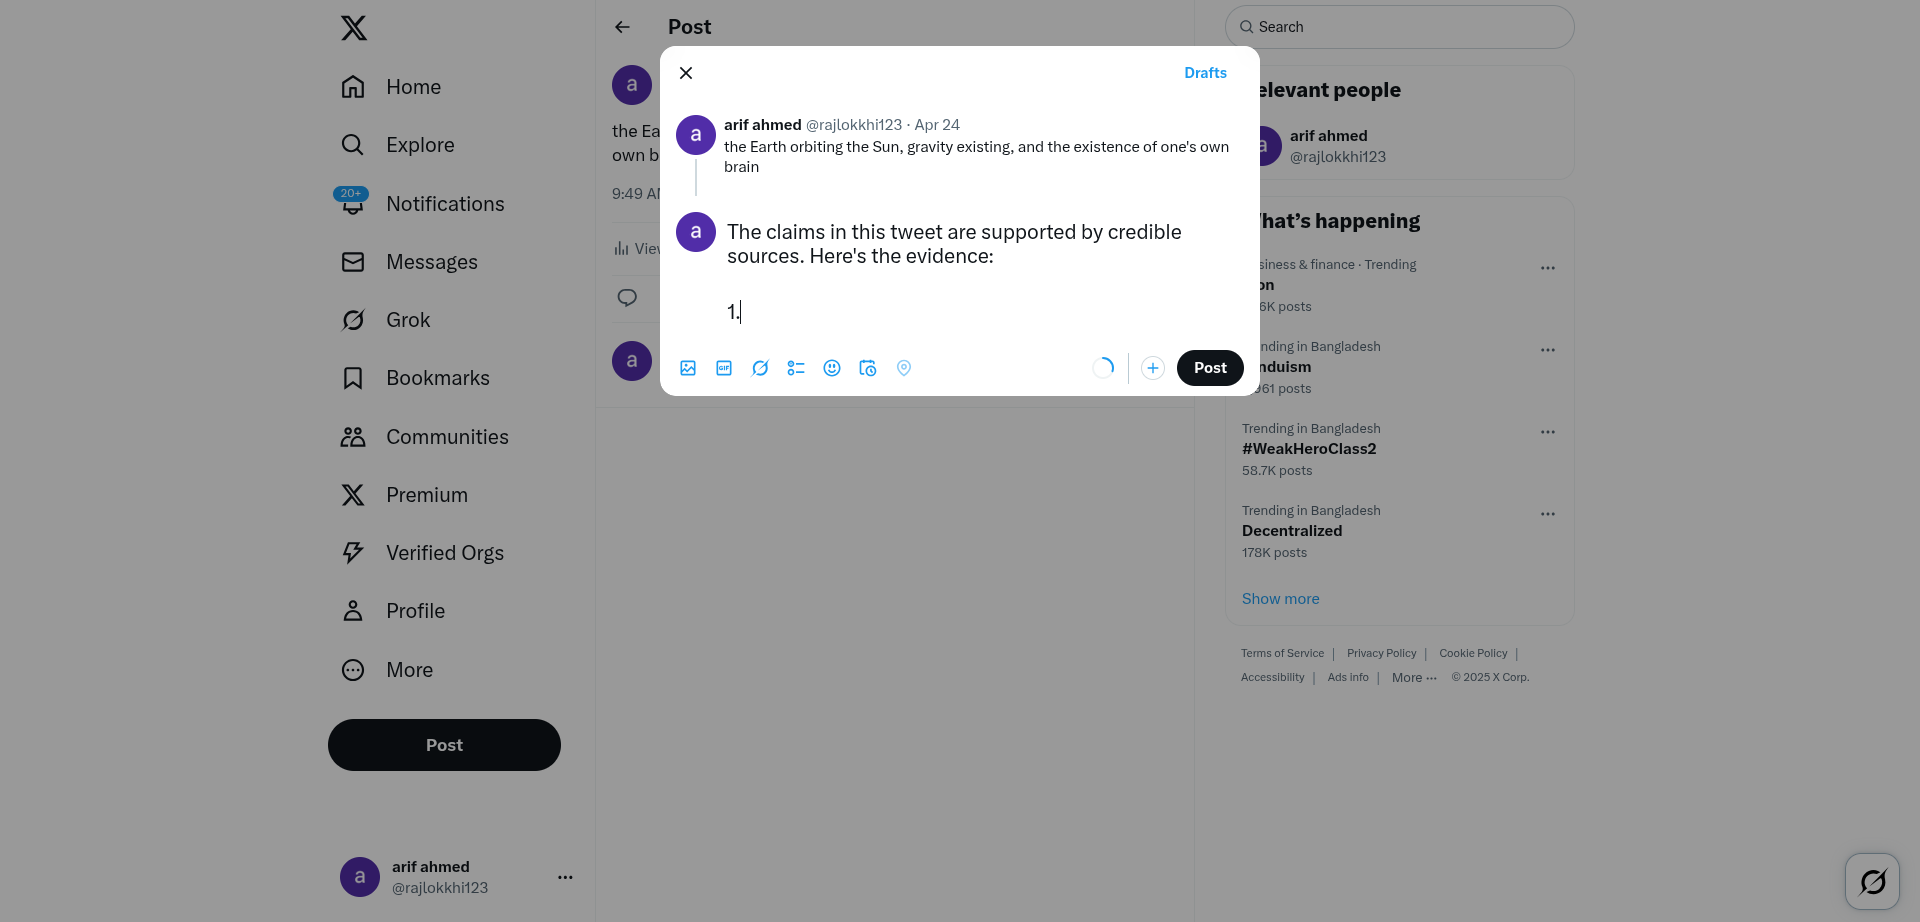
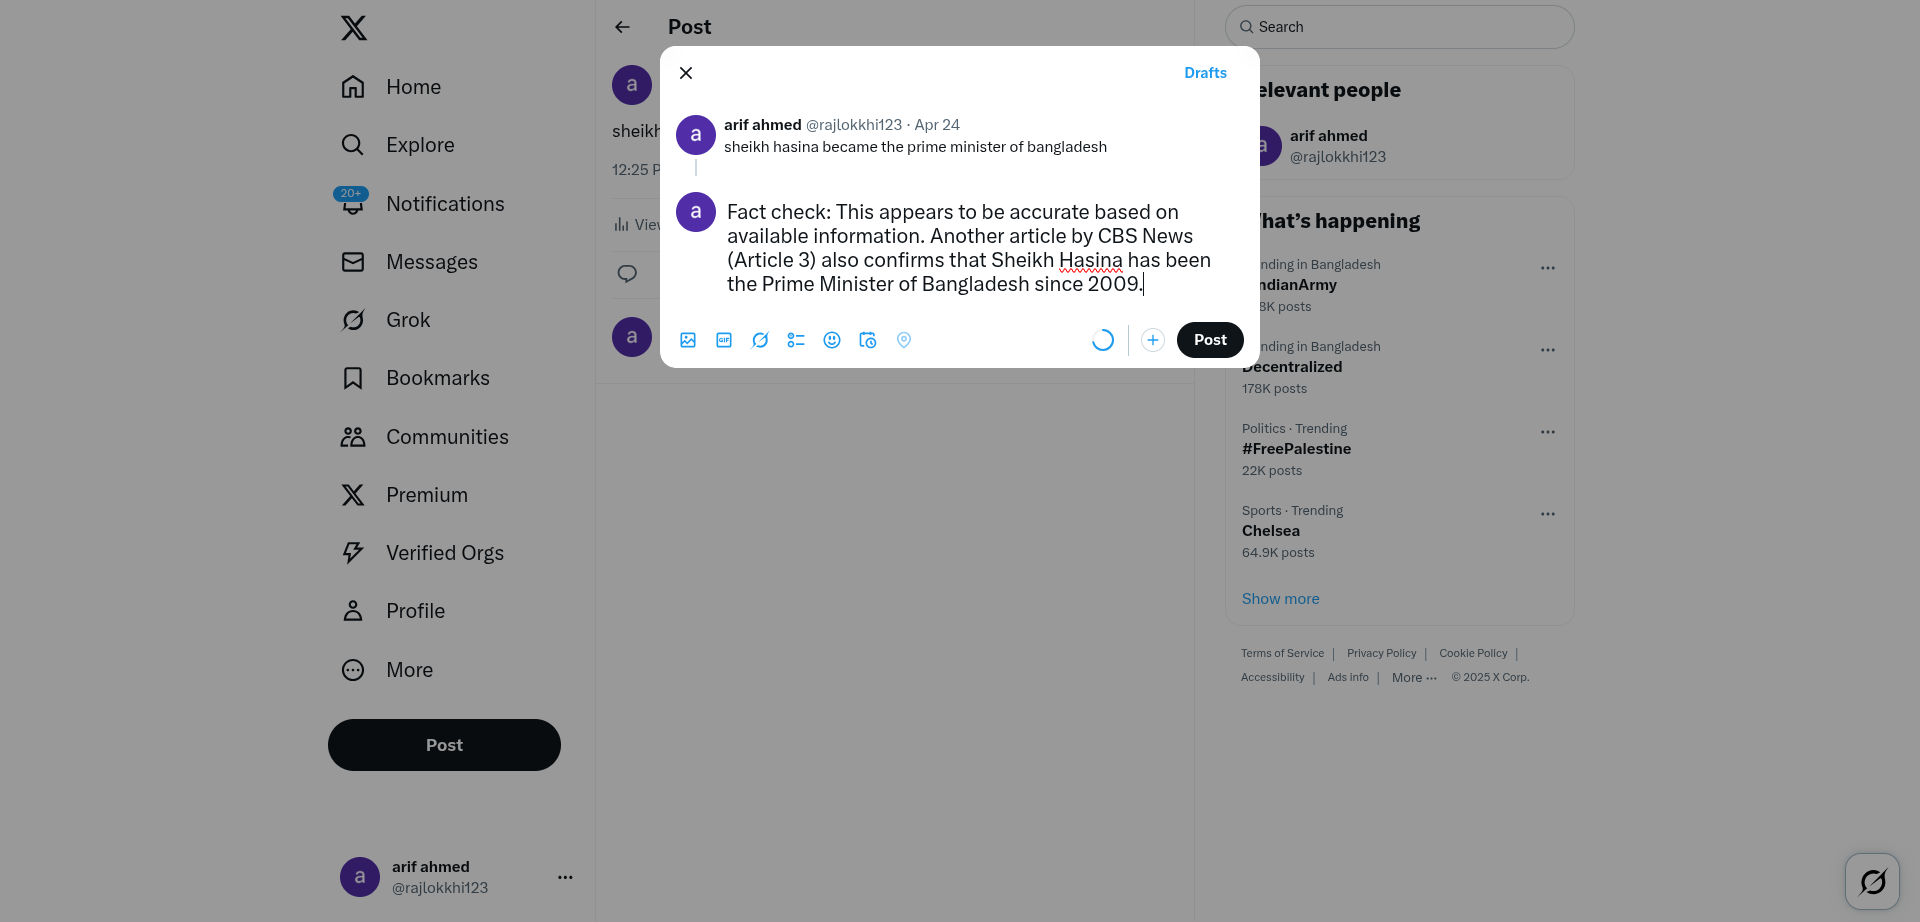
false and true news working perfectly

diff --git a/comment_merge.py b/comment_merge.py
@@ -7,11 +7,6 @@ import os
 import tkinter as tk
 from tkinter import ttk
 from tkinter import messagebox
-from Twitter_post_checker import GroqAPI
-
-GROQ_API_KEY = os.environ.get("GROQ_API_KEY", "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")
-
-
 
 def create_temp_script(content, file_name):
     """Create a temporary script file with the given content."""
@@ -436,33 +431,6 @@ def show_true_response(root, tweet_url, analysis):
     # Generate the response first
     response = generate_true_response(analysis)
 
-    ####my short response using llm 
-    # If response is too long, generate a shorter version
-    if len(response) > 250:
-        print("Response too long, generating concise version...")
-        concise_prompt = f"""
-        Please summarize this fact-check response to be under 250 characters for Twitter,
-        while preserving the key factual information:
-        
-        Original response: {response}
-        
-        Concise version:
-        """
-        
-        # Initialize LLM (you'll need to pass your LLM instance or initialize here)
-        llm = GroqAPI(model_id="llama3-8b-8192", api_key=GROQ_API_KEY)
-        concise_response = llm.generate(concise_prompt, temperature=0.1, max_tokens=100)
-        
-        # Fallback if LLM fails or response is still too long
-        if len(concise_response) > 250 or not concise_response.strip():
-            print("Using fallback shortening method")
-            concise_response = response[:225] + "..." if len(response) > 225 else response
-        else:
-            response = concise_response.strip()
-
-
-         ###end   
-    
     # Save the response immediately to ensure it's available
     with open("selected_response.txt", "w") as f:
         f.write(response)

diff --git a/reply_twitter.py b/reply_twitter.py
@@ -237,7 +237,7 @@ def main():
     email = "ahmed19904888@gmail.com"
     username = "@rajlokkhi123"
     password = "Sajal12345"
-    post_url = "https://x.com/rajlokkhi123/status/1915251831619436771"
+    post_url = "https://x.com/rajlokkhi123/status/1915291091815064079"
     ##
     reply_text = get_reply_text()
     ##
